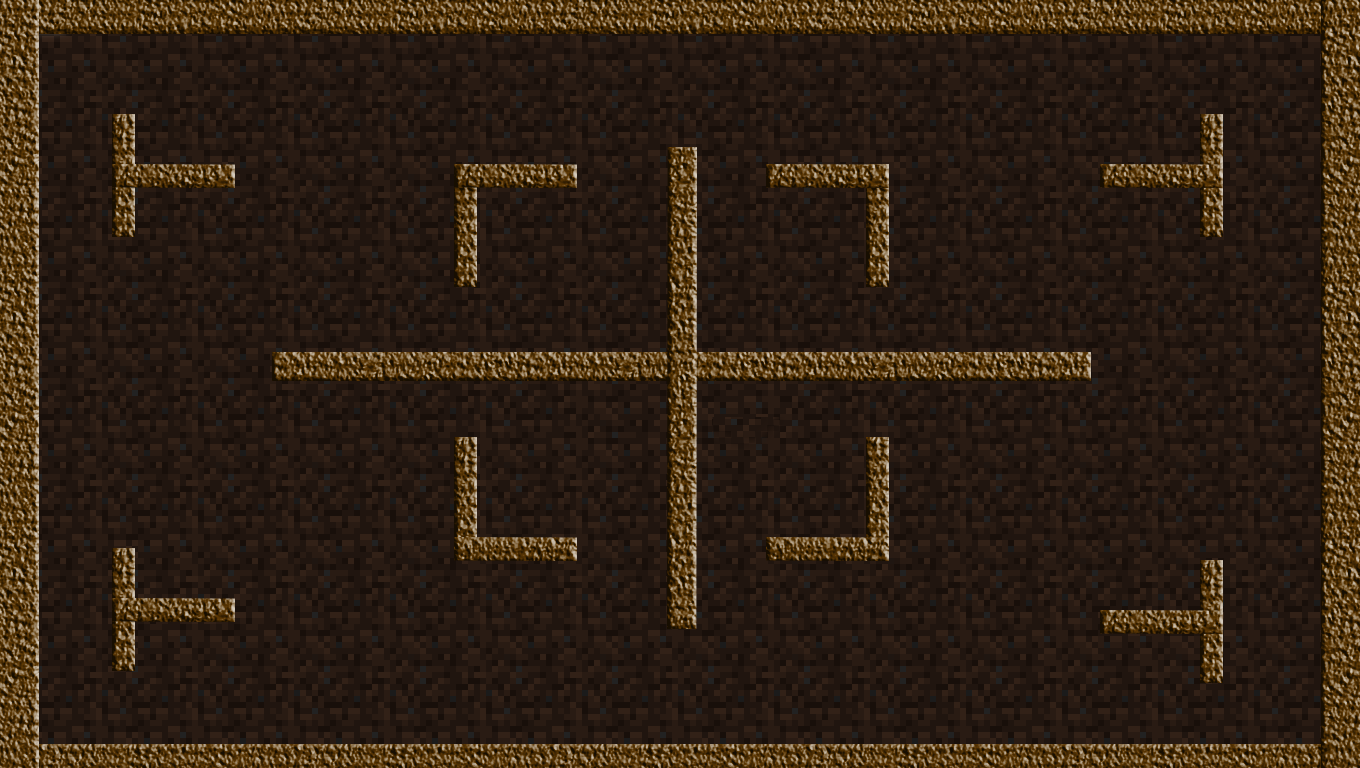
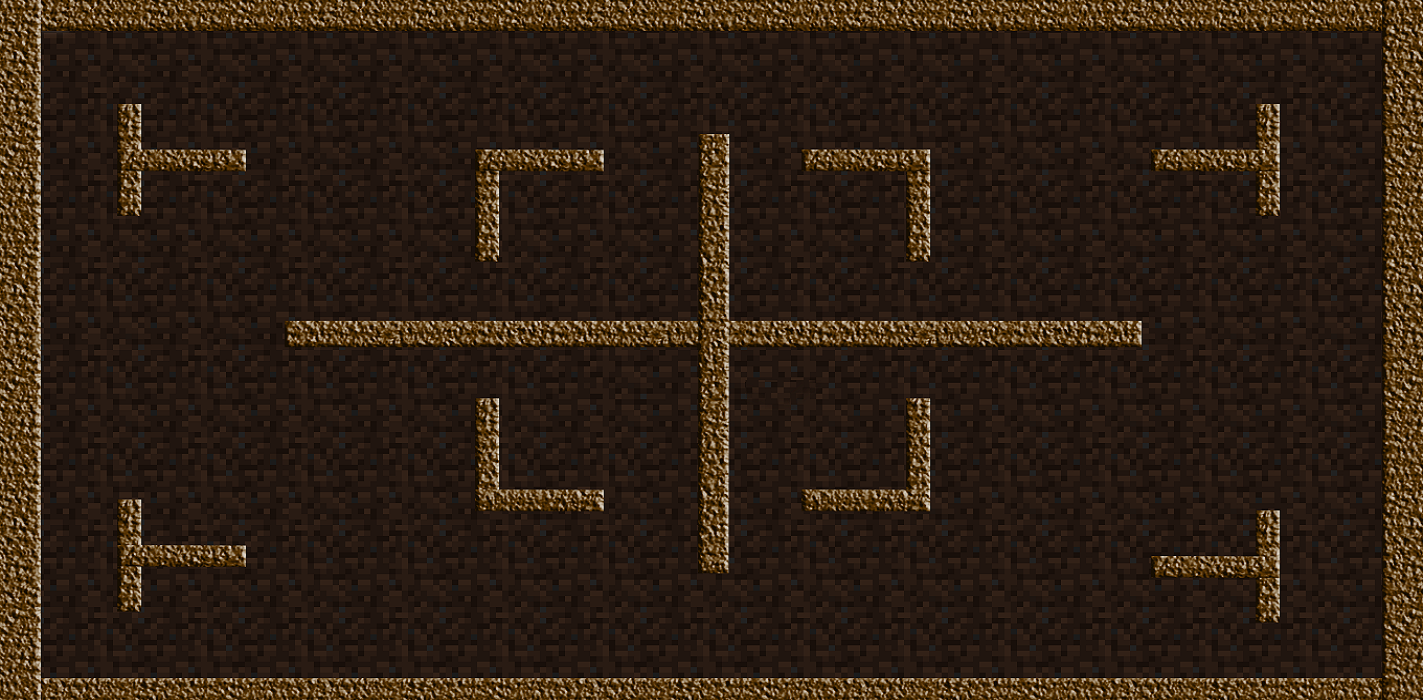
Changes
Test

diff --git a/Assets/Game.js b/Assets/Game.js
@@ -1,8 +1,6 @@
 MinerTrouble.Game = function (game) {
     this.coin;
-    this.miner;
-    this.coinGroup;
-    this.monsterGroup;
+    this.player;
     this.totalcoins;
     this.totalmonsters;
     this.coinsCollected;
@@ -15,6 +13,8 @@ MinerTrouble.Game = function (game) {
     this.ouch;
     this.health;
     this.healthPoints;
+    this.cursor;
+    this.facing;
 };
 
 MinerTrouble.Game.prototype = {
@@ -27,6 +27,7 @@ MinerTrouble.Game.prototype = {
         this.totalmonsters = 5;
         this.coinsCollected = 0;
         this.healthPoints = 1000;
+        this.facing = 'left';
         
         this.buildWorld();
     },
@@ -37,25 +38,27 @@ MinerTrouble.Game.prototype = {
         if(this.gameover != false){
             this.score.setText('');
         }else{
-            this.score.setText('Score: ' + this.coinsCollected);
+            this.score.setText('Coins Collected: ' + this.coinsCollected);
         }
     },
     
     buildWorld: function (){
-        this.add.image(0, 0, 'level');
+        this.add.image(0, 70, 'level');
         this.buildMiner();
-        this.score = this.add.bitmapText(10, 30, 'eightbitwonder', 'Score: ' + this.coinsCollected, 20);
+        this.score = this.add.bitmapText(5, 20, 'eightbitwonder', 'Coins Collected: ' + this.coinsCollected, 15);
+        this.health = this.add.bitmapText(5, 40, 'eightbitwonder', 'Health: ' + this.healthPoints, 15);
         this.timer.start();
     },
     
-    buildMonsters: function () {
-       
-    },
-    
     buildMiner: function () {
-        miner = this.add.sprite(40, 100, 'miner');
-        miner.animations.add('Walk');
-        miner.animations.play('Walk', 50, true);
+        this.player = this.add.sprite(65, 130, 'miner');
+        
+        this.physics.enable(this.player, Phaser.Physics.ARCADE);
+    
+        this.camera.follow(this.player);
+        
+        this.cursor = this.input.keyboard.createCursorKeys();
+        
     },
     
     buildCoins: function () {
@@ -85,7 +88,6 @@ MinerTrouble.Game.prototype = {
             this.overmessage = this.add.bitmapText(this.world.centerX-180, this.world.centerY-40, 'eightbitwonder', 'GAME OVER\n\n' + this.coinsCollected, 42);
             this.overmessage.align = "center";
             this.overmessage.inputEnabled = true;
-            
             this.overmessage.events.onInputDown.addOnce(this.quitGame, this);
         }else{
             this.health.setText('Health: ' + this.healthPoints);
@@ -97,6 +99,74 @@ MinerTrouble.Game.prototype = {
     },
     
     update: function () {
-        
+        this.physics.arcade.collide(this.player);
+
+        this.player.body.velocity.x = 0;
+
+        if (this.cursor.left.isDown)
+        {
+            this.player.body.velocity.x = -150;
+
+            if (this.facing != 'left')
+            {
+                this.player.animations.play('left');
+                this.facing = 'left';
+            }
+        }
+        else if (this.cursor.right.isDown)
+        {
+            this.player.body.velocity.x = 150;
+
+            if (this.facing != 'right')
+            {
+                this.player.animations.play('right');
+                this.facing = 'right';
+            }
+        }
+        else if (this.cursor.down.isDown)
+        {
+            this.player.body.velocity.y = 150;
+            
+            if (this.facing != 'up')
+            {
+                this.player.animations.play('up');
+                this.facing = 'up';
+            }
+        }
+        else if (this.cursor.up.isDown)
+        {
+            this.player.body.velocity.y = -150;
+            
+            if(this.facing != 'down')
+            {
+                this.player.animations.play('down');
+                this.facing = 'down';
+            }
+        }
+        else
+        {
+            if (this.facing != 'idle')
+            {
+                this.player.animations.stop();
+            }
+            if (this.facing == 'left')
+            {
+                this.player.frame = 3;
+            }
+            else if(this.facing == 'up')
+            {
+                this.player.frame = 7;
+            }
+            else if(this.facing == 'down')
+            {
+                this.player.frame = 1;
+            }
+            else
+            {
+                this.player.frame = 1;
+            }
+            this.facing = 'idle';
+            this.player.body.velocity.y = 0;
+        }
     }
 };

diff --git a/Assets/Preloader.js b/Assets/Preloader.js
@@ -12,9 +12,9 @@ MinerTrouble.Preloader.prototype = {
         this.load.setPreloadSprite(this.preloadBar);
         this.titleText = this.add.image(this.world.centerX, this.world.centerY - 220, 'titleimage');
         this.titleText.anchor.setTo(0.5, 0.5);
-        this.load.image()
-        this.load.image('cloud', 'Images/Cloud/sprite_cloud0.png');
+        this.load.image('titlescreen', 'Images/Title Logo/Miner Trouble.png');
         this.load.bitmapFont('eightbitwonder', 'Fonts/eightbitwonder.png', 'Fonts/eightbitwonder.fnt');
+        this.load.spritesheet('miner', 'Images/Miner/sprite-miner/sprite-miner.png', 42, 42);
         this.load.image('level', 'Images/Level/Level 1 Idea.png');
     },
     

diff --git a/Assets/StartMenu.js b/Assets/StartMenu.js
@@ -6,11 +6,11 @@ MinerTrouble.StartMenu = function (game) {
 MinerTrouble.StartMenu.prototype = {
     
     create: function () {
-        startBG = this.add.image(0, 0, 'titleScreen');
+        startBG = this.add.image(0, 0, 'titlescreen');
         startBG.inputEnabled = true;
         startBG.events.onInputDown.addOnce(this.startGame, this);
         
-        startPrompt = this.add.bitmapText(this.world.centerX - 155, this.world.centerY + 180, 'eightbitwonder', 'Touch to Start!', 24);
+        startPrompt = this.add.bitmapText(this.world.centerX - 155, this.world.centerY + 250, 'eightbitwonder', 'Touch to Start!', 24);
     },
     
     startGame: function (pointer) {

diff --git a/Assets/index.html b/Assets/index.html
@@ -4,14 +4,13 @@
 	<meta charset="utf-8">
     <meta name="mobile-web-app-capable" content="yes">
     <meta name="viewport" content="width=device-width">
-    <link rel="icon" sizes="196x196" href="Miner/sprite_miner0.png">
 	<title>Miner Trouble</title>
     <script src="libs/phaser.js"></script>
     <script src="Boot.js"></script>
     <script src="Preloader.js"></script>
-    <script src="StartMenu.js"></script>
+	<script src="StartMenu.js"></script>
     <script src="Game.js"></script>
-	<style>
+    <style>
 		body {
 			padding: 0;
 			margin: 0;
